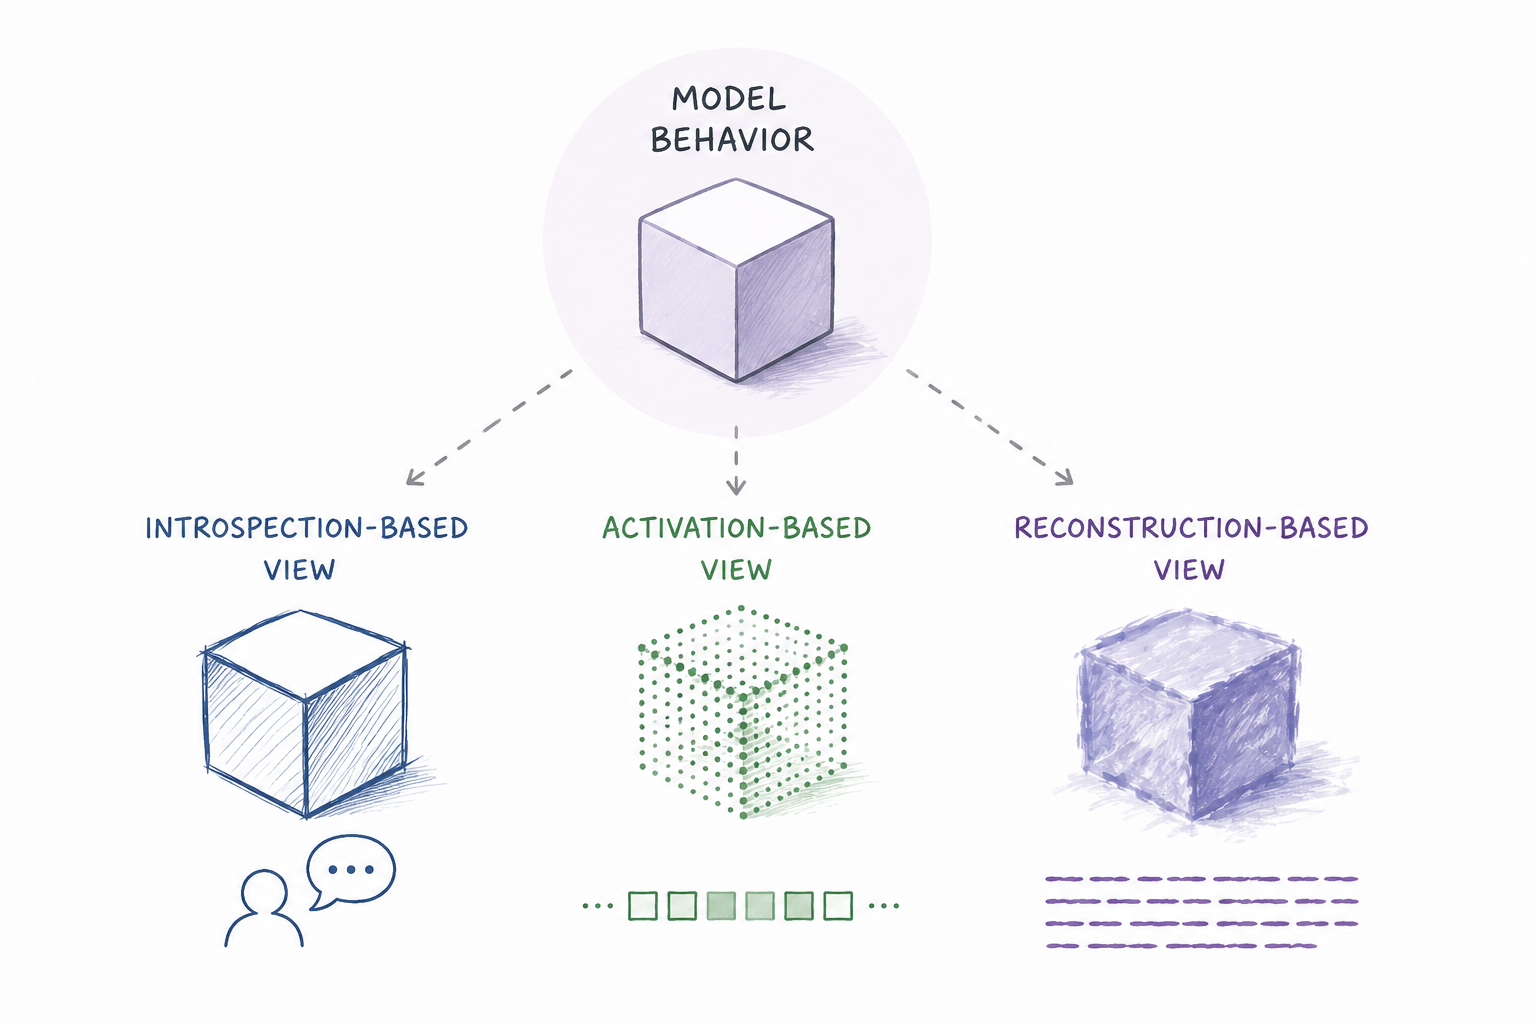
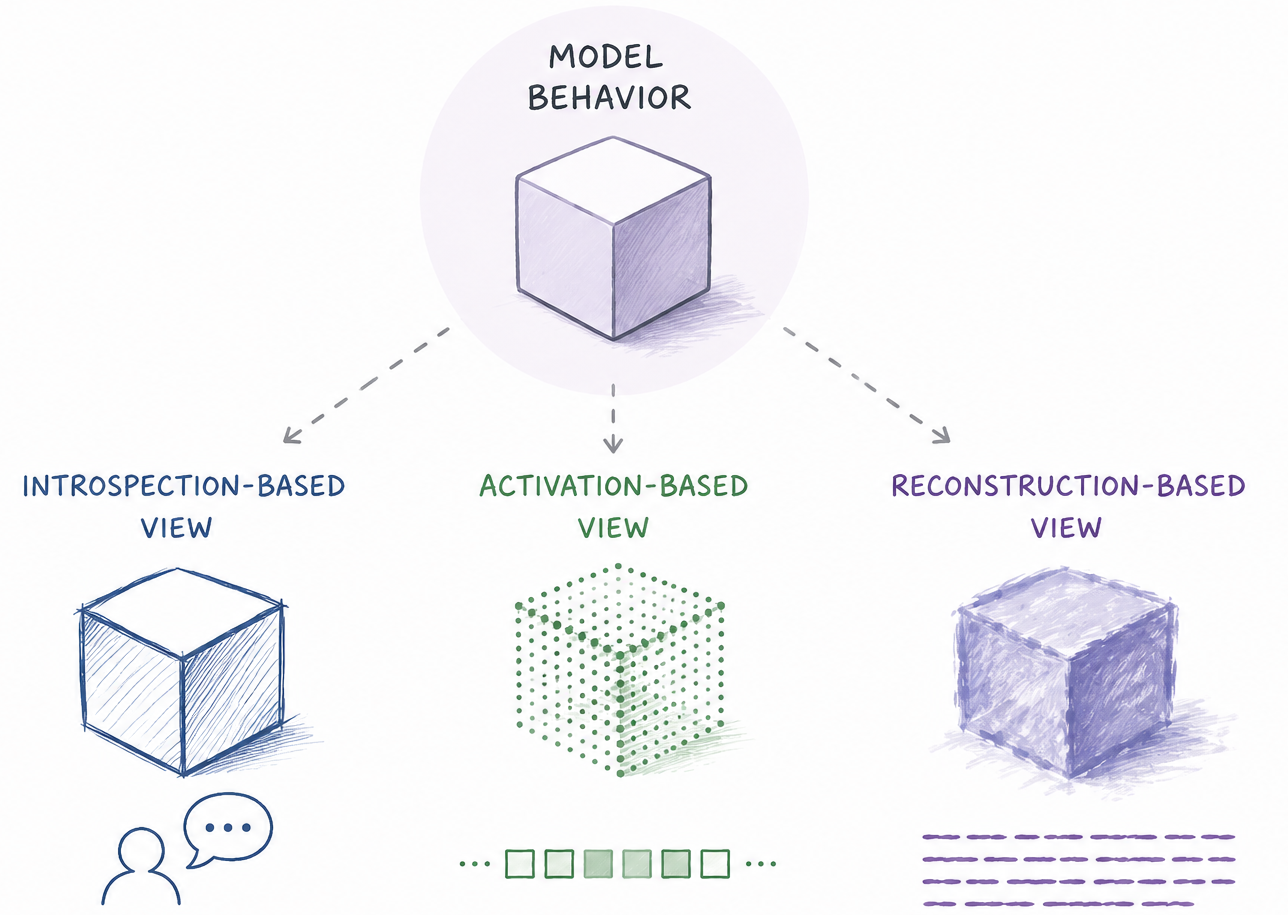
updates

diff --git a/verbalization.html b/verbalization.html
@@ -113,6 +113,13 @@
 		.toc li { list-style-type: disc; }
 		.toc li.indent { list-style-type: circle; margin-left: 1.25em; }
 
+		/* Highlight the section currently in view */
+		.toc a.active {
+			color: #4E6454;
+			font-weight: bold;
+			border-bottom-style: solid;
+		}
+
 		@media screen and (min-width: 1200px) {
 			.toc {
 				position: fixed;
@@ -145,9 +152,10 @@
 		figure img {
 			max-width: 100%;
 			height: auto;
-			border-radius: 8px;
-			border: 1px solid #e0e0e0;
 		}
+
+		/* No dotted link underline on image links */
+		figure a { border-bottom: none; }
 
 		figcaption {
 			margin-top: 0.75em;
@@ -242,11 +250,56 @@
 			padding: 0.1em 0.35em;
 		}
 
+		/* Code block (BibTeX) */
+		pre.bibtex {
+			position: relative;
+			background: #f4f7f4;
+			border-left: solid 4px #6D8B74;
+			border-radius: 6px;
+			padding: 1.25em 1.5em;
+			overflow-x: auto;
+			line-height: 1.5;
+		}
+
+		.copy-button {
+			position: absolute;
+			top: 0.6em;
+			right: 0.6em;
+			display: flex;
+			align-items: center;
+			justify-content: center;
+			background: #6D8B74;
+			color: #ffffff;
+			border: none;
+			border-radius: 4px;
+			padding: 0.4em;
+			cursor: pointer;
+			transition: background 0.2s ease;
+		}
+
+		.copy-button:hover {
+			background: #4E6454;
+		}
+
+		pre.bibtex code {
+			background: none;
+			padding: 0;
+			font-size: 0.8em;
+		}
+
 		ul { margin: 0 0 1.5em 0; }
 		li { margin-bottom: 0.5em; }
 
 		.underline { border-bottom: 0.05em solid; }
 		.muted { color: #888888; }
+
+		/* Reference list: smaller, grey, tighter */
+		.references p {
+			color: #888888;
+			font-size: 0.85em;
+			line-height: 1.45;
+			margin: 0 0 0.6em 0;
+		}
 
 		.two-col {
 			display: flex;
@@ -269,7 +322,7 @@
 		</nav>
 
 		<h1>Prediction, Explanation, or Over-interpretation?</h1>
-		<p class="byline">June 2026</p>
+		<p class="byline"><a href="https://elena-baixy.github.io/">Xiaoyan Bai</a></p>
 
 		<nav class="toc">
 			<div class="toc-title">Contents</div>
@@ -277,13 +330,14 @@
 				<li><a href="#evaluating">Evaluating verbalization ability</a></li>
 				<li><a href="#methods">Three verbalization methods</a></li>
 				<li><a href="#explanation">Explanation</a></li>
-				<li class="indent"><a href="#sr-ao-vs-nla">SR and AO work better than NLA in evaluation awareness in the small model</a></li>
+				<li class="indent"><a href="#sr-ao-vs-nla">SR and AO work better than NLA in evaluation awareness</a></li>
 				<li><a href="#prediction">Prediction</a></li>
 				<li class="indent"><a href="#injecting-activations">Injecting activations is not useful for long, open-ended predictive verbalization</a></li>
 				<li class="indent"><a href="#nla-wrong">40% of NLA explanations are wrong</a></li>
 				<li class="indent"><a href="#sr-ao-similar">SR and AO exhibit similar prediction behavior, while NLA captures different information</a></li>
 				<li><a href="#hypothesis">Hypothesis and Concerns of Current Verbalization Failure</a></li>
 				<li><a href="#limitation">Limitation and Future Direction</a></li>
+				<li><a href="#citation">Acknowledgement and Citation</a></li>
 				<li><a href="#reference">Reference</a></li>
 			</ul>
 		</nav>
@@ -296,6 +350,8 @@
 
 		<figure>
 			<a href="verbalization_blog/hero.png"><img src="verbalization_blog/hero.png" alt="Overview of verbalization methods" /></a>
+			<a href="verbalization_blog/hero_under.png"><img src="verbalization_blog/hero_under.png" alt="Example answers from the three verbalization methods to an evaluation awareness question" style="margin-top: 1em;" /></a>
+			<figcaption>Figure 1. An overview of current verbalization methods and the failure cases we found when verbalizing evaluation awareness. The introspection-based method can sometimes fail to recognize the situation, the activation-based method may answer based on the wrong source of the activations, and NLA sometimes provides no clues about the situation in its explanations.</figcaption>
 		</figure>
 
 		<h2 id="evaluating">Evaluating verbalization ability</h2>
@@ -304,7 +360,7 @@
 
 		<figure>
 			<a href="verbalization_blog/fig1_tasks.png"><img src="verbalization_blog/fig1_tasks.png" alt="Examples of explanatory and predictive verbalization tasks" /></a>
-			<figcaption>Figure 1. Examples of explanatory verbalization and predictive verbalization tasks used in our study.</figcaption>
+			<figcaption>Figure 2. Examples of explanatory verbalization and predictive verbalization tasks used in our study.</figcaption>
 		</figure>
 
 		<ul>
@@ -384,13 +440,13 @@
 			</div>
 		</details>
 
-		<h3 id="sr-ao-vs-nla">SR and AO work better than NLA in evaluation awareness in the small model</h3>
+		<h3 id="sr-ao-vs-nla">SR and AO work better than NLA in evaluation awareness</h3>
 
-		<p>We tested on 200 samples each on <a href="https://arxiv.org/abs/2310.13548">sycophancy evaluation benchmark</a>, <a href="https://arxiv.org/abs/2206.04615">BigBench-Hard</a> (BBH), and <a href="https://arxiv.org/abs/2402.10260">StrongReject</a>. In all datasets, SR exhibited more evaluation awareness, while AO and NLA awareness appeared much more limited (&lt; 5%). One possible reason is that we are using a smaller model than the one used in their paper. Another difference is that we use self-report as the verbalization signal rather than CoT verbalization, which may be too weak a baseline for verbalization.</p>
+		<p>We tested on 200 samples each on <a href="https://arxiv.org/abs/2310.13548">sycophancy evaluation benchmark</a>, <a href="https://arxiv.org/abs/2206.04615">BigBench-Hard</a> (BBH), and <a href="https://arxiv.org/abs/2402.10260">StrongReject</a>. In all datasets, SR exhibited more evaluation awareness, while AO and NLA awareness appeared much more limited (&lt; 5%). This differs from the original claim in the NLA blog. We suspect that the reason is that the CoT verbalization in the NLA blog is weak compared to SR. Another notable factor is that we are using a smaller model than the one used in their paper.</p>
 
 		<figure>
 			<a href="verbalization_blog/fig2_eval_awareness_qwen25.png"><img src="verbalization_blog/fig2_eval_awareness_qwen25.png" alt="Evaluation awareness results for Qwen 2.5 7B" /></a>
-			<figcaption>Figure 2. For Qwen 2.5 7B, SR shows highest evaluation awareness, while AO and NLA fail.</figcaption>
+			<figcaption>Figure 3. For Qwen 2.5 7B, SR shows highest evaluation awareness, while AO and NLA fail.</figcaption>
 		</figure>
 
 		<p>We investigated the reasonings of those methods and found that AO reasoning shows strong bias driven by AO&rsquo;s training. The following is an example of this reasoning:</p>
@@ -403,7 +459,7 @@
 			<summary>Evaluation awareness results for Qwen 3 and Gemma 2</summary>
 			<figure>
 				<a href="verbalization_blog/fig2a_eval_awareness_qwen3_gemma2.png"><img src="verbalization_blog/fig2a_eval_awareness_qwen3_gemma2.png" alt="Evaluation awareness of SR and AO in Qwen 3 and Gemma 2" /></a>
-				<figcaption>Figure 2a. Evaluation awareness of SR and AO in Qwen3 and Gemma2. AO in Qwen 3 has higher evaluation awareness, while SR in Gemma 2 has higher evaluation awareness.</figcaption>
+				<figcaption>Figure 3a. Evaluation awareness of SR and AO in Qwen3 and Gemma2. AO in Qwen 3 has higher evaluation awareness, while SR in Gemma 2 has higher evaluation awareness.</figcaption>
 			</figure>
 		</details>
 
@@ -413,14 +469,14 @@
 
 		<p>We built a dataset based on story generation. Given an instruction like &ldquo;Write me a story about a lighthouse keeper,&rdquo; we ask the model to perform greedy generation. After collecting the generations, we use GPT 5.4 mini as a judge to design questions about each generation, including word length, character names, and more story-specific questions, such as whether the lighthouse is old. We use these questions as a benchmark for evaluating the prediction ability of the methods. We ensure the dataset is balanced, with no strong bias toward any particular answer across different story prompts.</p>
 
-		<details class="section-toggle">
+		<details class="section-toggle" open>
 		<summary id="injecting-activations">Injecting activations is not useful for long, open-ended predictive verbalization.</summary>
 
 		<p>We compare SR and AO across Qwen 2.5 7B, Qwen 3 8B, and Gemma 2 9B (We are showing Qwen 2.5 7B in our main text). We trained AO on our predictive tasks following the setup in <a href="https://arxiv.org/abs/2512.15674">Karvonen et al.</a> from scratch (AO scratch). We also included two baselines: an SR baseline where we simply ask the base model to answer related questions, and an AO baseline where we insert activations and ask the untrained base model to answer related questions. We find that both trained models perform slightly better than their respective baselines. Surprisingly, the baseline AO model achieves non-trivial accuracy even though it was never trained to explain activations. This raises the concern of <span class="underline">how much of the predictive verbalization ability comes from reading activations and how much comes from the base model&rsquo;s general capabilities.</span></p>
 
 		<figure>
 			<a href="verbalization_blog/fig3_prediction_qwen25.png"><img src="verbalization_blog/fig3_prediction_qwen25.png" alt="Qwen 2.5 7B prediction-behavior consistency" /></a>
-			<figcaption>Figure 3. Qwen 2.5 7B prediction-behavior consistency on our story benchmark. SR stands for Self-Report and AO stands for Activation Oracle. The performance of AO scratch is close to SR trained, suggesting injecting activations is not necessarily useful for our predictive tasks.</figcaption>
+			<figcaption>Figure 4. Qwen 2.5 7B prediction-behavior consistency on our story benchmark. SR stands for Self-Report and AO stands for Activation Oracle. The performance of AO scratch is close to SR trained, suggesting injecting activations is not necessarily useful for our predictive tasks.</figcaption>
 		</figure>
 
 		<details class="muted-toggle">
@@ -428,16 +484,16 @@
 			<p>AO continued means that we continue finetuning the checkpoint on our story tasks.</p>
 			<figure>
 				<a href="verbalization_blog/fig3a_prediction_qwen3.png"><img src="verbalization_blog/fig3a_prediction_qwen3.png" alt="Qwen 3 8B prediction-behavior consistency" /></a>
-				<figcaption>Figure 3a. Qwen 3 8B prediction-behavior consistency. AO frozen means the released AO checkpoint from the original paper. AO continued means that the checkpoint we had by continuing fine-tuning on our benchmark. The results shows that SR trained has the highest consistency. AO frozen performance is less satisfying, indicating the limited generalizability.</figcaption>
+				<figcaption>Figure 4a. Qwen 3 8B prediction-behavior consistency. AO frozen means the released AO checkpoint from the original paper. AO continued means that the checkpoint we had by continuing fine-tuning on our benchmark. The results shows that SR trained has the highest consistency. AO frozen performance is less satisfying, indicating the limited generalizability.</figcaption>
 			</figure>
 			<figure>
 				<a href="verbalization_blog/fig3b_prediction_gemma2.png"><img src="verbalization_blog/fig3b_prediction_gemma2.png" alt="Gemma 2 9B prediction-behavior consistency" /></a>
-				<figcaption>Figure 3b. Gemma 2 9B prediction-behavior consistency. The performances of AO continued and SR trained are close, indicate injecting activation is not really helpful.</figcaption>
+				<figcaption>Figure 4b. Gemma 2 9B prediction-behavior consistency. The performances of AO continued and SR trained are close, indicate injecting activation is not really helpful.</figcaption>
 			</figure>
 		</details>
 		</details>
 
-		<details class="section-toggle">
+		<details class="section-toggle" open>
 		<summary id="nla-wrong">40% of NLA explanations are wrong</summary>
 
 		<p>NLA is trained for activation reconstruction rather than behavioral forecasting. Nevertheless, its natural-language explanations invite predictive interpretations by human readers. We therefore ask whether such interpretations are behaviorally supported. We used the Qwen 2.5 7B checkpoint released by the authors and collected explanations for every token position in our story-writing prompts.</p>
@@ -460,14 +516,14 @@
 
 		<figure>
 			<a href="verbalization_blog/fig4_nla_predictions.png"><img src="verbalization_blog/fig4_nla_predictions.png" alt="Predictions extracted from NLA explanations" /></a>
-			<figcaption>Figure 4. Prediction extracted from NLA explanation for the tokens of the prompt of &ldquo;Write a short story about a lighthouse keeper&rdquo;.</figcaption>
+			<figcaption>Figure 5. Prediction extracted from NLA explanation for the tokens of the prompt of &ldquo;Write a short story about a lighthouse keeper&rdquo;.</figcaption>
 		</figure>
 		</details>
 
-		<details class="section-toggle">
+		<details class="section-toggle" open>
 		<summary id="sr-ao-similar">SR and AO exhibit similar prediction behavior, while NLA captures different information</summary>
 
-		<p>Revisiting the story prediction benchmark task for AO and SR, as shown in Figure 4, we found that they do not always predict the same constraints correctly. However, training on the same downstream task will increase the number of the shared constraints.</p>
+		<p>Revisiting the story prediction benchmark task for AO and SR, as shown in Figure 6, we found that they do not always predict the same constraints correctly. However, training on the same downstream task will increase the number of the shared constraints.</p>
 
 		<p>For NLA, we asked an LLM judge to examine all the explanations and check whether they contained answers to our benchmark questions. It turned out that over 95% of the questions were not covered. When we converted the constraints extracted from NLA back into QA questions, SR and AO accuracy was also lower (Table 1). These results suggest that different verbalization methods capture different aspects of prediction for a given instruction. While this likely reflects differences in training objectives and in the inputs each method receives, it also highlights the need for caution when applying these methods, especially when treating any of them as a baseline or ground truth. None of the methods is fully self-consistent, and there is less consistency across methods overall.</p>
 
@@ -486,7 +542,7 @@
 			<div>
 				<figure style="margin-top: 0;">
 					<a href="verbalization_blog/fig5_venn.png"><img src="verbalization_blog/fig5_venn.png" alt="Overlap of SR and AO predictions" style="max-width: 336px;" /></a>
-					<figcaption>Figure 5. Although SR and AO have some shared prediction, they both make unique predictions. Training on the same tasks will increase the number of shared predictions.</figcaption>
+					<figcaption>Figure 6. Although SR and AO have some shared prediction, they both make unique predictions. Training on the same tasks will increase the number of shared predictions.</figcaption>
 				</figure>
 			</div>
 		</div>
@@ -511,7 +567,7 @@
 			<p>A more pessimistic possibility is that verbalized predictions and explanations do not reliably correspond to the mechanisms generating behavior. Under this hypothesis, disagreements across methods arise because at least some verbalizations are weakly grounded in the underlying computation.</p>
 		</details>
 
-		<p>The last possibility leads to the two concerns we have:</p>
+		<p>Those lead to the two concerns we have:</p>
 
 		<details>
 			<summary>Concern 1: Models may verbalize plausible explanations without access to the underlying mechanism</summary>
@@ -521,7 +577,7 @@
 
 		<details>
 			<summary>Concern 2: Introspective predictions may emerge from task design rather than behavioral self-understanding</summary>
-			<p>Even when a verbalization is grounded and behaviorally predictive, it may not imply a coherent model of the system's own behavior. Success on a task-specific prediction objective may reflect local mappings from prompts, activations, or contexts to verbal labels rather than a globally consistent representation of future behavior. Prior work has shown that apparent capabilities can depend strongly on evaluation design and measurement choices (<a href="https://arxiv.org/abs/2304.15004">Schaeffer et al., 2023</a>). This raises the possibility that some verbalization methods capture narrow task-specific prediction abilities rather than stable introspective representations.</p>
+			<p>Even when a verbalization is grounded and behaviorally predictive, it may not imply a coherent model of the system's own behavior. Success on a task-specific prediction objective may reflect local mappings from prompts, activations, or contexts to verbal labels rather than a globally consistent representation of future behavior. Prior work has shown that apparent capabilities can depend strongly on evaluation design and measurement choices (<a href="https://arxiv.org/abs/2509.13316">Li et al., 2025</a><a href="https://arxiv.org/abs/2304.15004">Schaeffer et al., 2023</a>). This raises the possibility that some verbalization methods capture narrow task-specific prediction abilities rather than stable introspective representations.</p>
 			<p>The central question raised by this concern is whether successful verbal prediction reflects a general behavioral self-model or merely a collection of local predictive heuristics.</p>
 		</details>
 
@@ -535,16 +591,77 @@
 
 		<p>Our study focuses on verbalization methods operating on prompts and activations. A next step is to compare them with approaches that access model representations through weights or mechanistic analyses. For example, Introspection Adapters elicit information encoded in model parameters, while methods such as Patchscopes, SAEs, and circuit analysis attempt to characterize internal representations more directly. Evaluating these approaches under a common prediction and explanation benchmark could help determine whether disagreements arise from verbalization itself or from deeper ambiguities in the underlying representations.</p>
 
+		<h2 id="citation">Acknowledgement and Citation</h2>
+
+		<p>This blog post is an ongoing joint work by Xiaoyan Bai, Tianze Hua, Yichen Wang, Tianyang Xu, Mina Lee, Ellie Pavlick, and Chenhao Tan.</p>
+
+		<p>If you find this blog post useful, please cite it as:</p>
+
+		<pre class="bibtex"><button class="copy-button" onclick="copyBibtex(this)" aria-label="Copy BibTeX" title="Copy BibTeX"><svg width="14" height="14" viewBox="0 0 24 24" fill="none" stroke="currentColor" stroke-width="2" stroke-linecap="round" stroke-linejoin="round"><rect x="9" y="9" width="13" height="13" rx="2" ry="2"></rect><path d="M5 15H4a2 2 0 0 1-2-2V4a2 2 0 0 1 2-2h9a2 2 0 0 1 2 2v1"></path></svg></button><code id="bibtex-code">@misc{bai2026verbalization,
+  title  = {Prediction, Explanation, or Over-interpretation?},
+  author = {Bai, Xiaoyan and Hua, Tianze and Wang, Yichen and Xu, Tianyang and Lee, Mina and Pavlick, Ellie and Tan, Chenhao},
+  year   = {2026},
+  month  = {June},
+  url    = {https://elena-baixy.github.io/verbalization.html}
+}</code></pre>
+
 		<h2 id="reference">Reference</h2>
 
-		<p>Binder, Felix Jedidja, et al. "Looking inward: Language models can learn about themselves by introspection." International Conference on Learning Representations. Vol. 2025. 2025.</p>
-		<p>Li, Belinda Z., et al. "Training language models to explain their own computations." arXiv preprint arXiv:2511.08579 (2025).</p>
-		<p>Fraser-Taliente, Kantamneni, Ong et al., "Natural Language Autoencoders Produce Unsupervised Explanations of LLM Activations", Transformer Circuits, 2026.</p>
-		<p>Schaeffer, Rylan, Brando Miranda, and Sanmi Koyejo. "Are emergent abilities of large language models a mirage?." Advances in neural information processing systems 36 (2023): 55565-55581.</p>
-		<p>Nisbett, Richard E., and Timothy D. Wilson. "Telling more than we can know: Verbal reports on mental processes." Psychological review 84.3 (1977): 231.</p>
-		<p>Nikankin, Yaniv, et al. "Arithmetic without algorithms: Language models solve math with a bag of heuristics." International Conference on Learning Representations. Vol. 2025. 2025.</p>
-		<p>Karvonen, Adam, et al. "Activation oracles: Training and evaluating llms as general-purpose activation explainers." arXiv preprint arXiv:2512.15674 (2025).</p>
+		<div class="references">
+			<p>Binder, Felix Jedidja, et al. "Looking inward: Language models can learn about themselves by introspection." International Conference on Learning Representations. Vol. 2025. 2025.</p>
+			<p>Li, Belinda Z., et al. "Training language models to explain their own computations." arXiv preprint arXiv:2511.08579 (2025).</p>
+			<p>Li, Millicent, et al. "Do Natural Language Descriptions of Model Activations Convey Privileged Information?." arXiv preprint arXiv:2509.13316 (2025).</p>
+			<p>Fraser-Taliente, Kantamneni, Ong et al., "Natural Language Autoencoders Produce Unsupervised Explanations of LLM Activations", Transformer Circuits, 2026.</p>
+			<p>Schaeffer, Rylan, Brando Miranda, and Sanmi Koyejo. "Are emergent abilities of large language models a mirage?." Advances in neural information processing systems 36 (2023): 55565-55581.</p>
+			<p>Nisbett, Richard E., and Timothy D. Wilson. "Telling more than we can know: Verbal reports on mental processes." Psychological review 84.3 (1977): 231.</p>
+			<p>Nikankin, Yaniv, et al. "Arithmetic without algorithms: Language models solve math with a bag of heuristics." International Conference on Learning Representations. Vol. 2025. 2025.</p>
+			<p>Karvonen, Adam, et al. "Activation oracles: Training and evaluating llms as general-purpose activation explainers." arXiv preprint arXiv:2512.15674 (2025).</p>
+		</div>
 
 	</div>
+
+	<script>
+		// Highlight the TOC entry for the section currently in view
+		(function() {
+			var links = document.querySelectorAll('.toc a[href^="#"]');
+			var pairs = [];
+			links.forEach(function(link) {
+				var target = document.getElementById(link.getAttribute('href').slice(1));
+				if (target) pairs.push({ target: target, link: link });
+			});
+			var ticking = false;
+			function update() {
+				ticking = false;
+				var pos = window.scrollY + window.innerHeight * 0.3;
+				var current = null;
+				pairs.forEach(function(p) {
+					var top = p.target.getBoundingClientRect().top + window.scrollY;
+					if (top <= pos) current = p.link;
+				});
+				pairs.forEach(function(p) {
+					p.link.classList.toggle('active', p.link === current);
+				});
+			}
+			function onScroll() {
+				if (!ticking) {
+					ticking = true;
+					requestAnimationFrame(update);
+				}
+			}
+			window.addEventListener('scroll', onScroll, { passive: true });
+			window.addEventListener('resize', onScroll, { passive: true });
+			update();
+		})();
+
+		function copyBibtex(button) {
+			var text = document.getElementById('bibtex-code').textContent;
+			var copyIcon = button.innerHTML;
+			var checkIcon = '<svg width="14" height="14" viewBox="0 0 24 24" fill="none" stroke="currentColor" stroke-width="2" stroke-linecap="round" stroke-linejoin="round"><polyline points="20 6 9 17 4 12"></polyline></svg>';
+			navigator.clipboard.writeText(text).then(function() {
+				button.innerHTML = checkIcon;
+				setTimeout(function() { button.innerHTML = copyIcon; }, 2000);
+			});
+		}
+	</script>
 </body>
 </html>

diff --git a/index.html b/index.html
@@ -340,6 +340,20 @@
 						<div class="blog-item">
 							<div class="blog-content">
 								<p>
+									<span><a href="verbalization.html">Prediction, Explanation, or Over-interpretation?</a> (June, 2026) <br />
+										Can language models verbalize their own computation? We compare three verbalization methods — self-report, activation oracle, and natural language autoencoder — and find that none is consistent across tasks, with itself, or with the others. 🔍
+									</span>
+								</p>
+							</div>
+							<div class="blog-preview">
+								<a href="verbalization.html">
+									<img src="./images/verbalization-preview.png" alt="Verbalization Blog Preview" />
+								</a>
+							</div>
+						</div>
+						<div class="blog-item">
+							<div class="blog-content">
+								<p>
 									<span><a href="https://tinyurl.com/MechEvalAgents">MechEvalAgent: Grounded Evaluation of Research Agents in Mechanistic Interpretability</a> (November, 2025) <br />
 										Research agents are getting smarter. They can write convincing PhD-level reports. But has anyone checked if the way they find their results makes any sense? Our framework, MechEvalAgents,  verifies the science, not just the story 🤖
 									</span>
